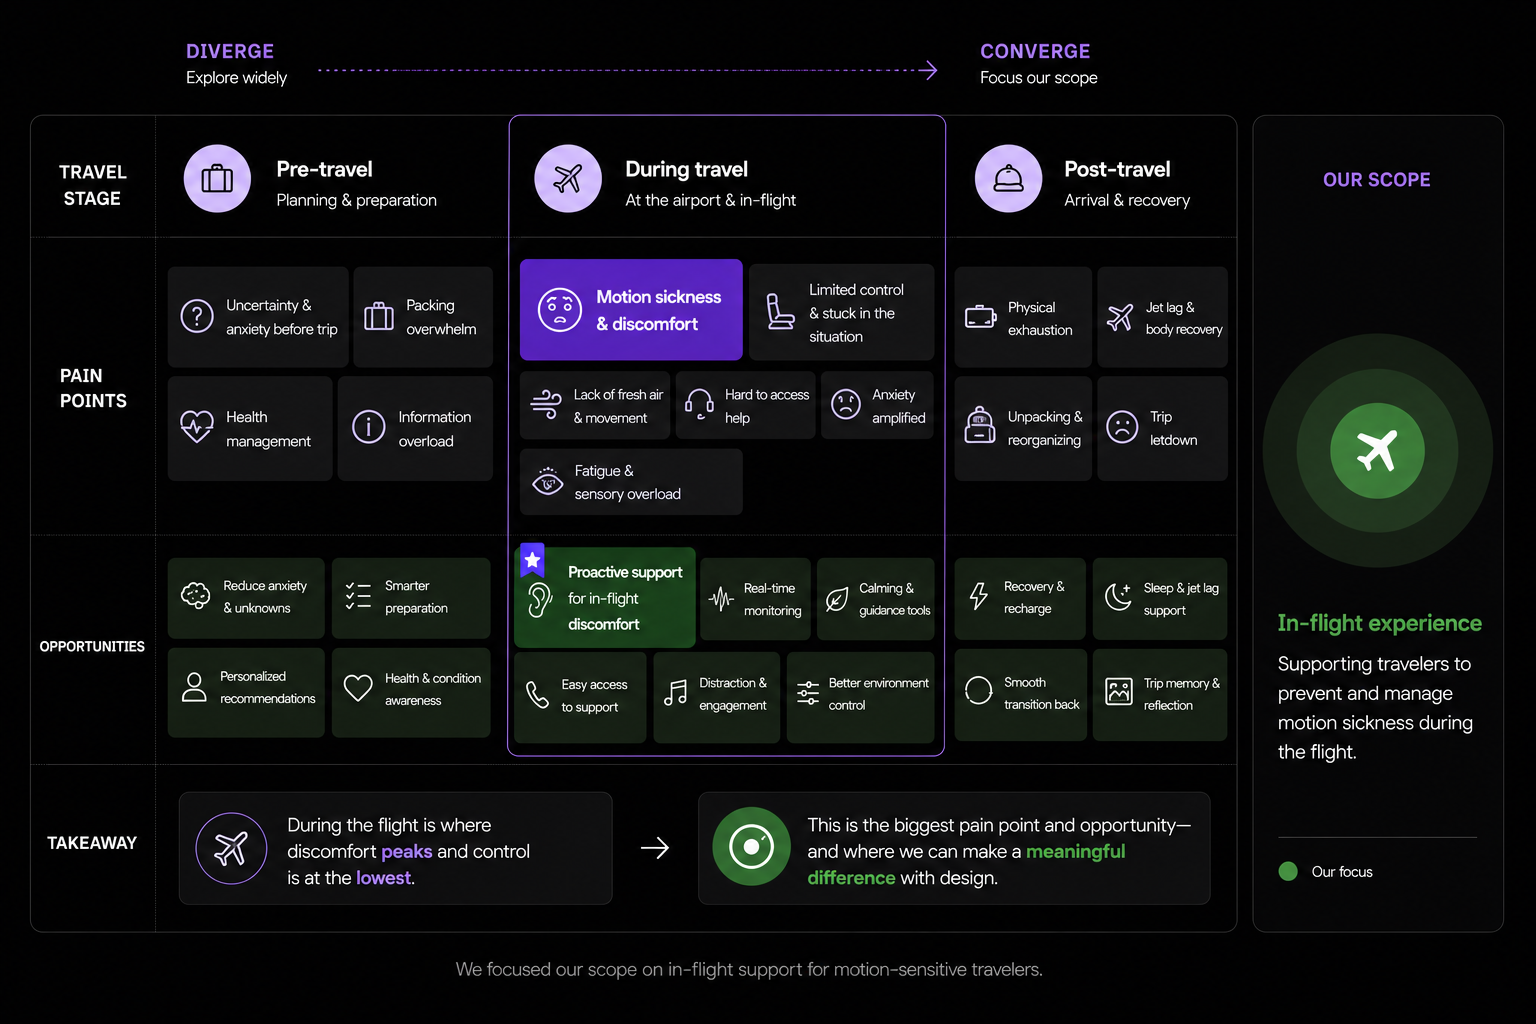
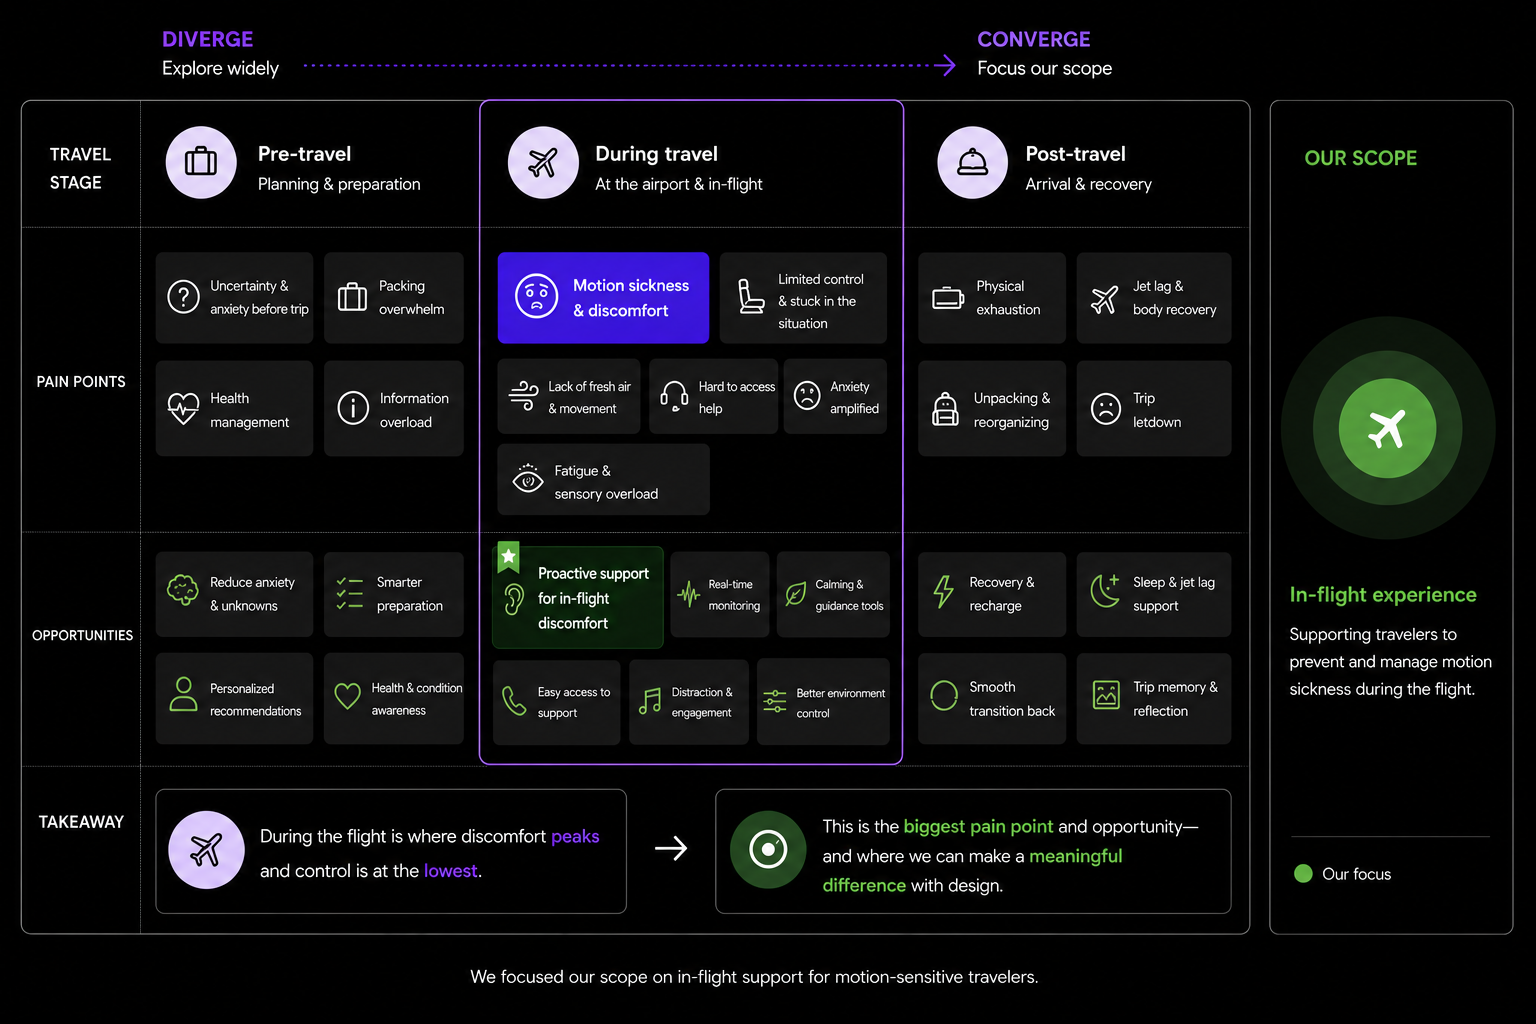
Update Aura Discovery image and section copy

diff --git a/src/data/projectDetails.ts b/src/data/projectDetails.ts
@@ -3,6 +3,7 @@ import auraCover from "@/assets/aura-cover.png";
 import studioWatersCover from "@/assets/studio-waters-cover.png";
 import auraDetail1 from "@/assets/aura-detail-1.png";
 import auraApproach1 from "@/assets/aura-approach-1.png";
+import auraDiscovery1 from "@/assets/aura-discovery-1.png";
 import auraApproach2 from "@/assets/aura-approach-2.png";
 import auraApproach3 from "@/assets/aura-approach-3.png";
 import auraSystem1 from "@/assets/aura-system-1.png";
@@ -48,9 +49,9 @@ const aura: ProjectDetailDocument = {
       id: "discovery",
       label: "Discovery",
       figures: [
-        { type: "image", src: auraApproach1, alt: "Aura discovery — travel journey mapping" },
+        { type: "image", src: auraDiscovery1, alt: "Aura discovery — travel journey mapping" },
       ],
-      body: "## Finding the strongest opportunity in the travel journey\n\nAfter choosing travel as our direction, we needed to narrow the scope. Travel includes many moments, each with different types of friction, so we mapped the journey across three stages: pre-travel, during travel, and post-travel.\n\nAs a team, we brainstormed pain points and opportunities within each stage. Pre-travel was filled with planning, packing, uncertainty, and preparation stress. Post-travel focused more on recovery, jet lag, and re-adjustment. But the during travel stage stood out because the user is already in motion, physically constrained, and has the least control over their environment.\n\nWithin that stage, in-flight discomfort became the clearest opportunity. It was not only one of the strongest pain points, but also a space where design could meaningfully intervene. Travelers cannot stop turbulence, leave the cabin, or remove themselves from motion, but a product system could help them feel more prepared, supported, and in control.\n\nThis discovery helped us define Aura’s scope: supporting travelers during the flight, when discomfort is most intense and control is most limited.\n\n[[fig:0]]",
+      body: "After choosing travel as our direction, we mapped the journey across three stages: pre-travel, during travel, and post-travel. This helped us compare where travelers experience the most friction and where design could make the most meaningful impact.\n\n[[fig:0]]\n\nThrough this process, in-flight discomfort stood out as the strongest opportunity. Unlike planning stress or post-travel recovery, discomfort during the flight happens when travelers are already in motion, physically constrained, and have very limited control over their environment.\n\nThis became Aura’s scope: supporting motion-sensitive travelers during the flight, when discomfort is most intense and control is most limited.",
     },
     {
       id: "research",
